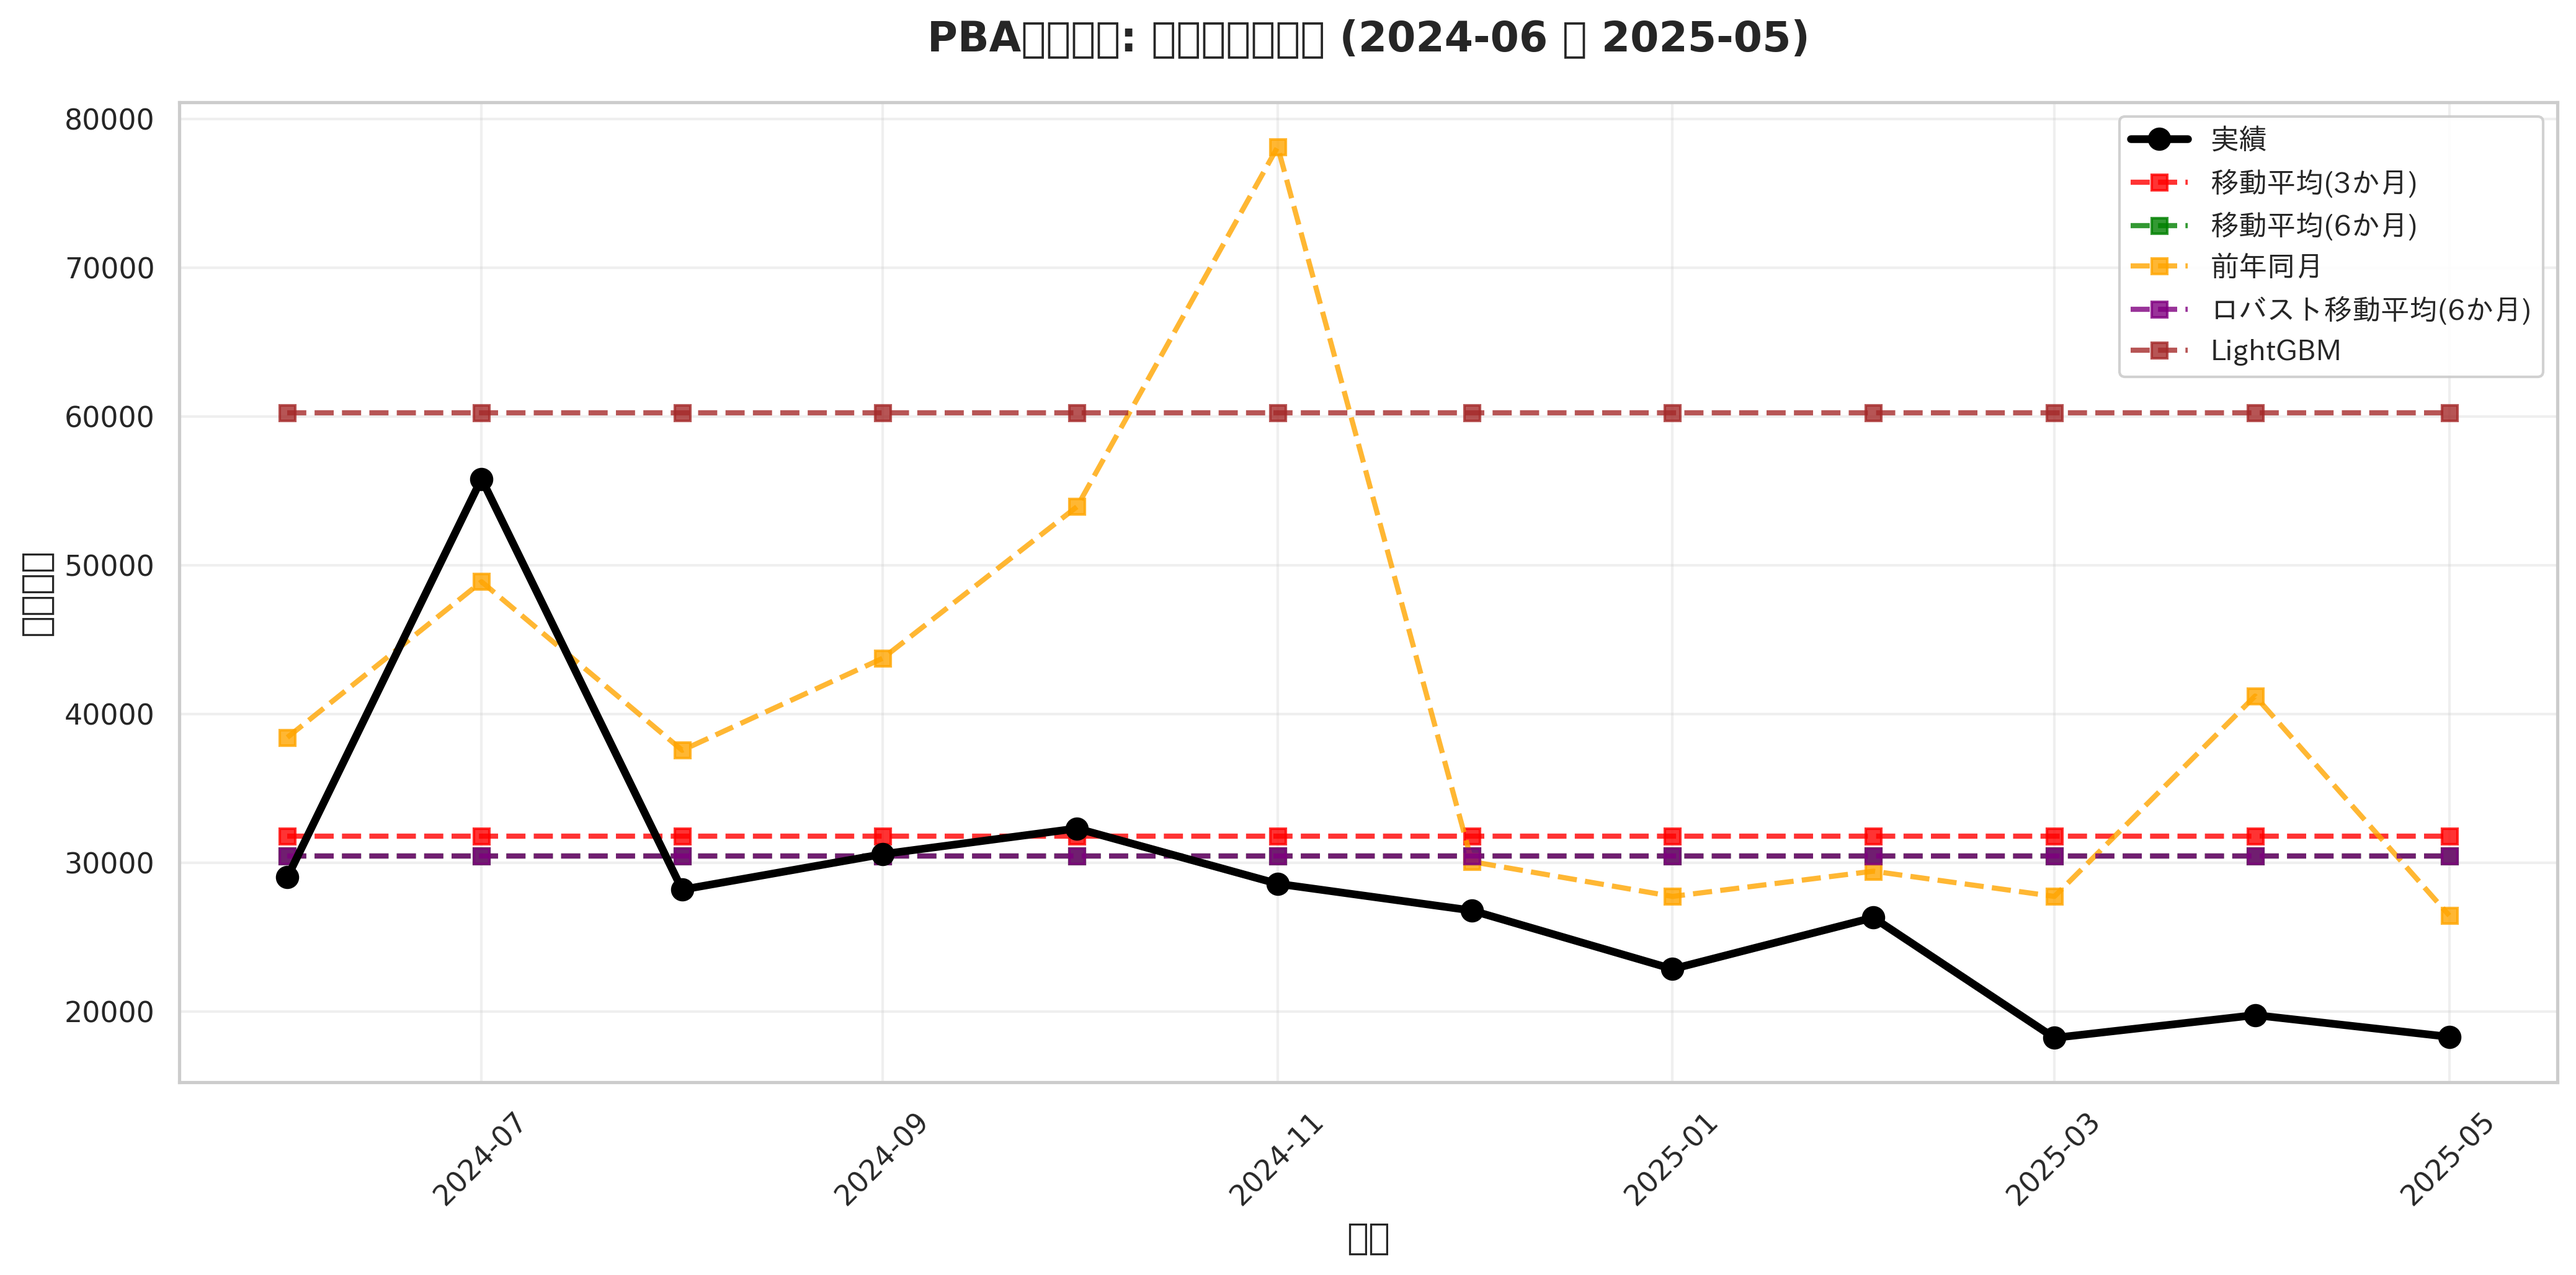
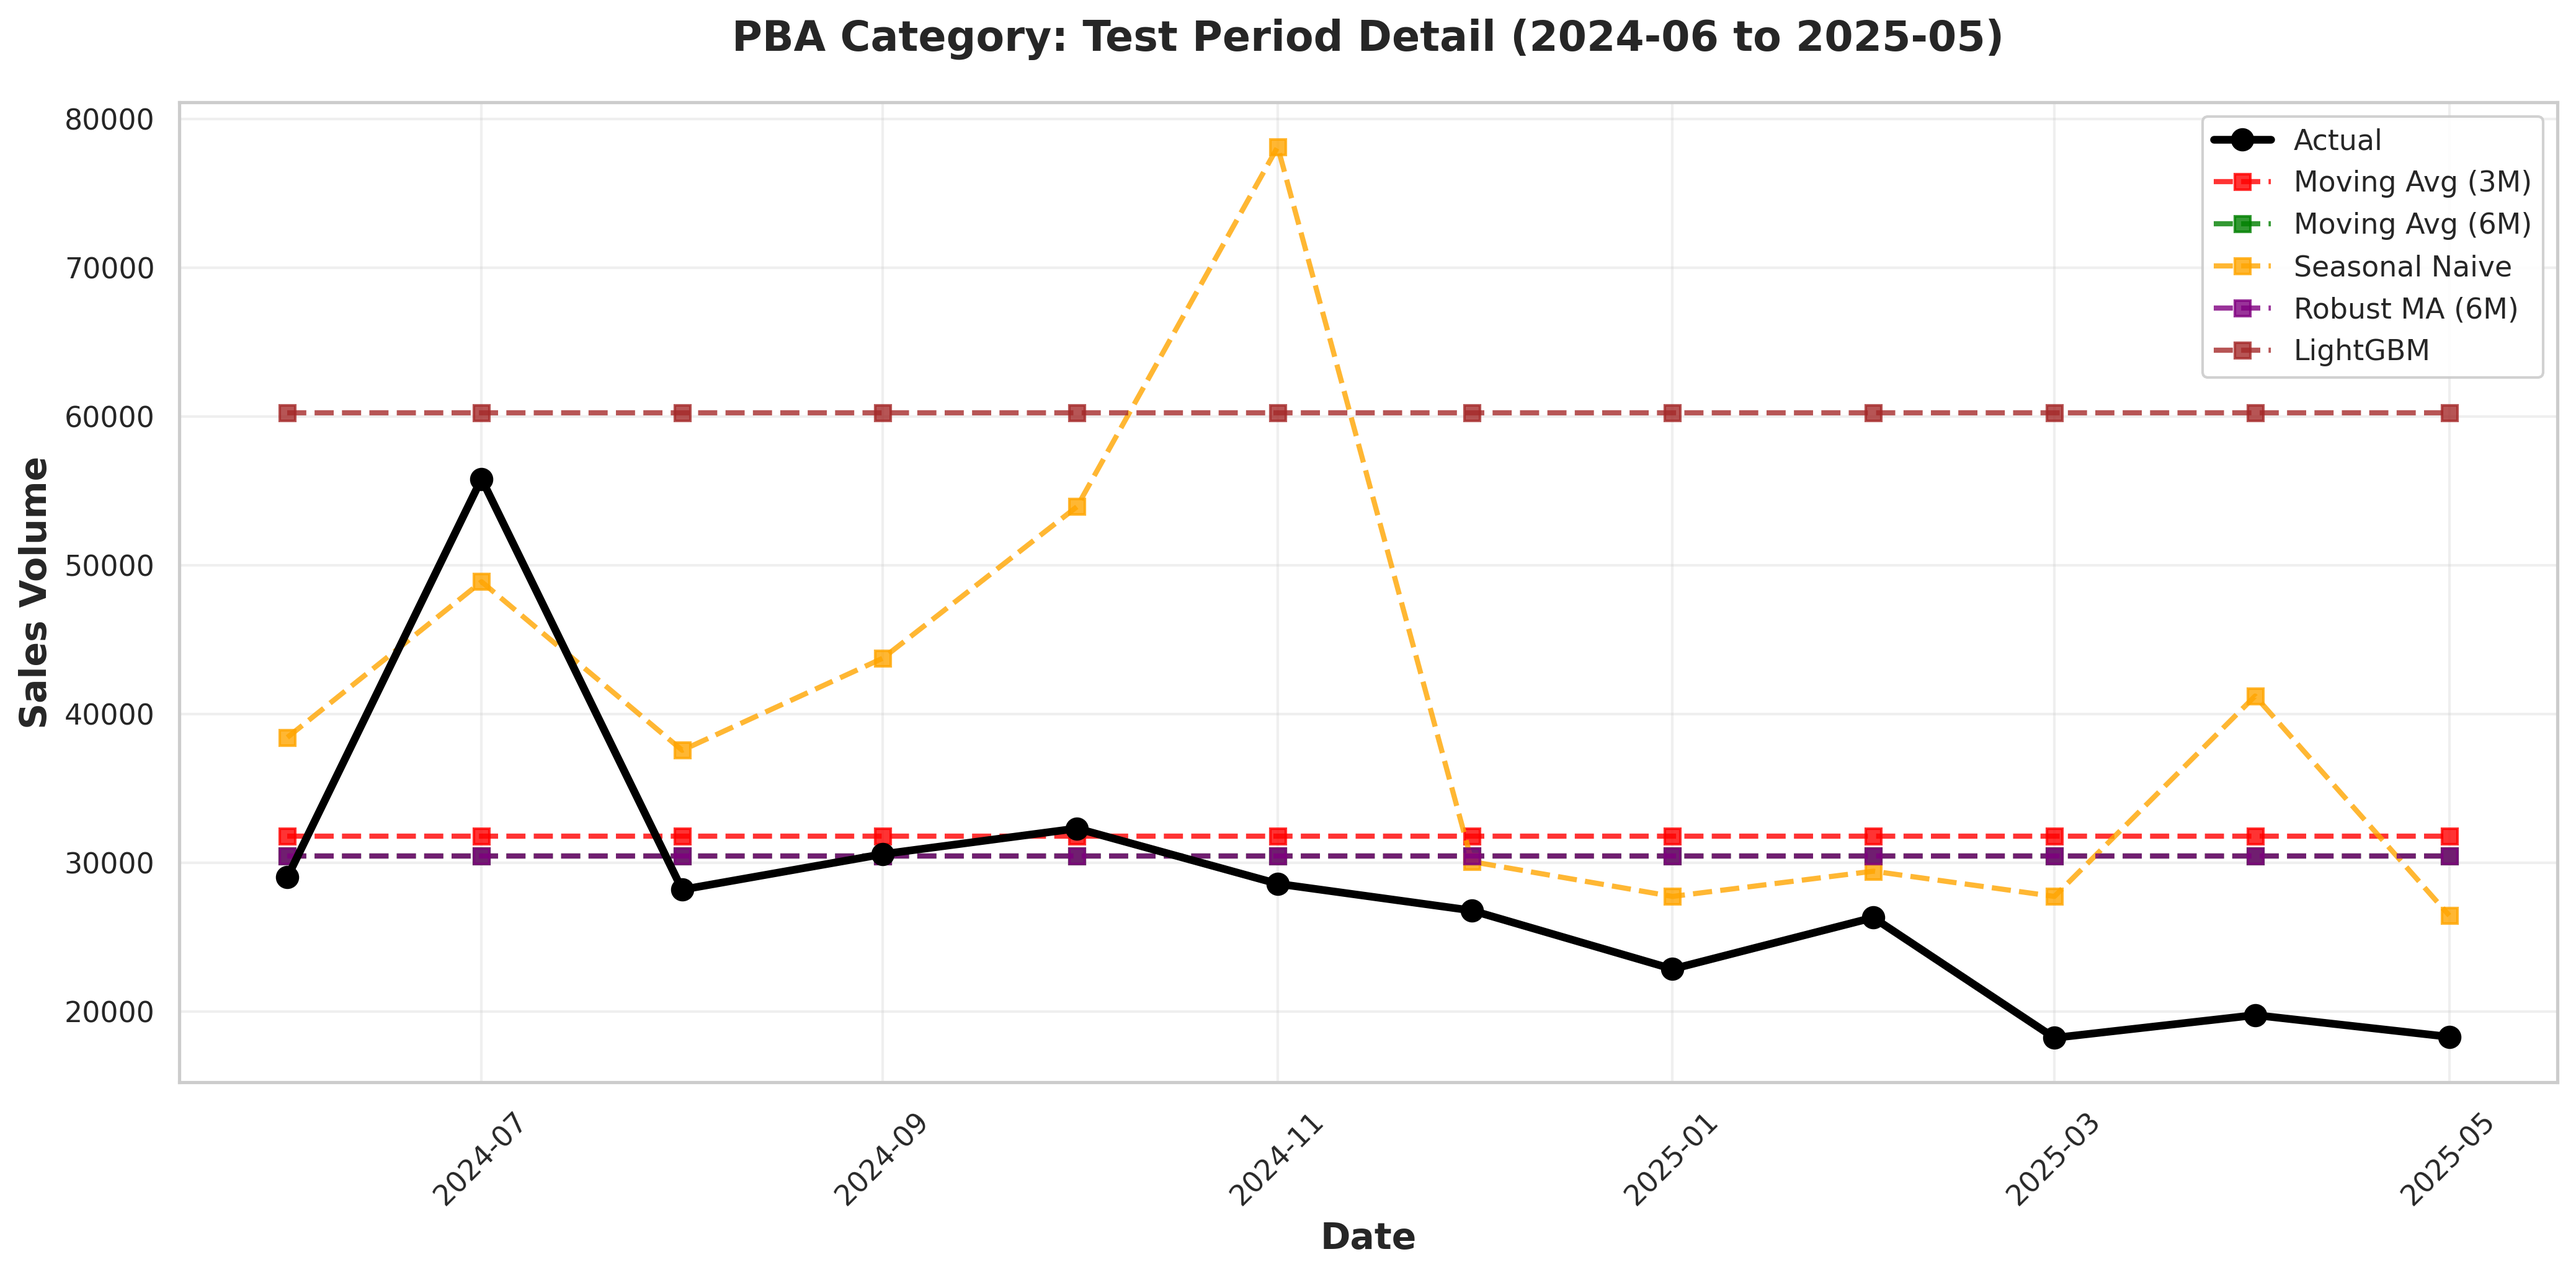
可視化グラフを全て英語表記に変更
日本語フォントの問題により文字化けが発生したため、全てのグラフを英語表記に変更しました。

変更内容:
- 日本語フォント設定を削除
- グラフタイトル、軸ラベル、凡例を全て英語に変更
- モデル名マッピングを削除し、英語のモデル名を直接使用
- 12個の可視化グラフを英語で再生成

修正したグラフ:
- 時系列比較グラフ: "Predictions vs Actual"
- テスト期間詳細グラフ: "Test Period Detail"
- メトリクス比較グラフ: "Model Performance Comparison"
- ヒートマップ: "Model Performance Heatmap"
- ベストモデル比較: "Best Model Performance by Category"
- ベースライン vs ML: "Baseline vs Machine Learning"

🤖 Generated with [Claude Code](https://claude.com/claude-code)

diff --git a/create_visualizations.py b/create_visualizations.py
@@ -18,11 +18,6 @@ from src.lightgbm_models import LightGBMForecaster
 import warnings
 warnings.filterwarnings('ignore')
 
-# 日本語フォント設定
-plt.rcParams['font.family'] = 'IPAexGothic'
-plt.rcParams['font.sans-serif'] = ['IPAexGothic', 'Noto Sans CJK JP', 'DejaVu Sans']
-plt.rcParams['axes.unicode_minus'] = False
-
 # スタイル設定
 sns.set_style('whitegrid')
 sns.set_palette('husl')
@@ -78,39 +73,31 @@ def plot_category_comparison(sheet_name: str, save_dir: Path):
     # ===================================================================
     fig, ax = plt.subplots(figsize=(16, 8))
 
-    # 訓練期間の実績
+    # Training period actual
     ax.plot(train_monthly['ds'], train_monthly['y'],
-            'o-', linewidth=2, markersize=4, label='訓練データ', color='blue', alpha=0.7)
+            'o-', linewidth=2, markersize=4, label='Training Data', color='blue', alpha=0.7)
 
-    # テスト期間の実績
+    # Test period actual
     ax.plot(test_monthly['ds'], test_monthly['y'],
-            'o-', linewidth=3, markersize=6, label='実績（テスト期間）', color='black', zorder=10)
+            'o-', linewidth=3, markersize=6, label='Actual (Test)', color='black', zorder=10)
 
-    # 各モデルの予測
+    # Model predictions
     colors = ['red', 'green', 'orange', 'purple', 'brown']
-    model_name_jp = {
-        'Moving Avg (3M)': '移動平均(3か月)',
-        'Moving Avg (6M)': '移動平均(6か月)',
-        'Seasonal Naive': '前年同月',
-        'Robust MA (6M)': 'ロバスト移動平均(6か月)',
-        'LightGBM': 'LightGBM'
-    }
     for i, (model_name, pred_df) in enumerate(models_predictions.items()):
-        jp_name = model_name_jp.get(model_name, model_name)
         ax.plot(pred_df['ds'], pred_df['yhat'],
-                's--', linewidth=2, markersize=5, label=jp_name,
+                's--', linewidth=2, markersize=5, label=model_name,
                 color=colors[i % len(colors)], alpha=0.8)
 
-    # 訓練/テスト境界線
+    # Train/test boundary
     train_test_boundary = train_monthly['ds'].max()
     ax.axvline(x=train_test_boundary, color='red', linestyle=':', linewidth=2,
-               label='訓練/テスト分割', alpha=0.7)
+               label='Train/Test Split', alpha=0.7)
 
-    ax.set_xlabel('日付', fontsize=14, fontweight='bold')
-    ax.set_ylabel('販売台数', fontsize=14, fontweight='bold')
-    ax.set_title(f'{sheet_name}カテゴリ: 予測 vs 実績',
+    ax.set_xlabel('Date', fontsize=14, fontweight='bold')
+    ax.set_ylabel('Sales Volume', fontsize=14, fontweight='bold')
+    ax.set_title(f'{sheet_name} Category: Predictions vs Actual',
                  fontsize=16, fontweight='bold', pad=20)
-    ax.legend(loc='best', fontsize=11, framealpha=0.9, prop={'family': 'IPAexGothic'})
+    ax.legend(loc='best', fontsize=11, framealpha=0.9)
     ax.grid(True, alpha=0.3)
     plt.xticks(rotation=45)
     plt.tight_layout()
@@ -126,22 +113,21 @@ def plot_category_comparison(sheet_name: str, save_dir: Path):
     # ===================================================================
     fig, ax = plt.subplots(figsize=(14, 7))
 
-    # 実績
+    # Actual values
     ax.plot(test_monthly['ds'], test_monthly['y'],
-            'o-', linewidth=3, markersize=8, label='実績', color='black', zorder=10)
+            'o-', linewidth=3, markersize=8, label='Actual', color='black', zorder=10)
 
-    # 各モデルの予測
+    # Model predictions
     for i, (model_name, pred_df) in enumerate(models_predictions.items()):
-        jp_name = model_name_jp.get(model_name, model_name)
         ax.plot(pred_df['ds'], pred_df['yhat'],
-                's--', linewidth=2, markersize=6, label=jp_name,
+                's--', linewidth=2, markersize=6, label=model_name,
                 color=colors[i % len(colors)], alpha=0.8)
 
-    ax.set_xlabel('日付', fontsize=14, fontweight='bold')
-    ax.set_ylabel('販売台数', fontsize=14, fontweight='bold')
-    ax.set_title(f'{sheet_name}カテゴリ: テスト期間詳細 (2024-06 ～ 2025-05)',
+    ax.set_xlabel('Date', fontsize=14, fontweight='bold')
+    ax.set_ylabel('Sales Volume', fontsize=14, fontweight='bold')
+    ax.set_title(f'{sheet_name} Category: Test Period Detail (2024-06 to 2025-05)',
                  fontsize=16, fontweight='bold', pad=20)
-    ax.legend(loc='best', fontsize=11, framealpha=0.9, prop={'family': 'IPAexGothic'})
+    ax.legend(loc='best', fontsize=11, framealpha=0.9)
     ax.grid(True, alpha=0.3)
     plt.xticks(rotation=45)
     plt.tight_layout()
@@ -185,19 +171,16 @@ def plot_category_comparison(sheet_name: str, save_dir: Path):
 
     metrics_df = pd.DataFrame(metrics_data)
 
-    # モデル名を日本語に変換
-    metrics_df['Model_JP'] = metrics_df['Model'].map(model_name_jp)
-
     # 3つのメトリクスを横並びで表示
     fig, axes = plt.subplots(1, 3, figsize=(18, 6))
 
     # MAPE
     ax = axes[0]
-    bars = ax.bar(metrics_df['Model_JP'], metrics_df['MAPE'], color=colors[:len(metrics_df)])
+    bars = ax.bar(metrics_df['Model'], metrics_df['MAPE'], color=colors[:len(metrics_df)])
     ax.set_ylabel('MAPE (%)', fontsize=12, fontweight='bold')
-    ax.set_title('平均絶対パーセント誤差', fontsize=14, fontweight='bold')
+    ax.set_title('Mean Absolute Percentage Error', fontsize=14, fontweight='bold')
     ax.tick_params(axis='x', rotation=45)
-    # 値をバーの上に表示
+    # Display values on bars
     for bar in bars:
         height = bar.get_height()
         ax.text(bar.get_x() + bar.get_width()/2., height,
@@ -205,9 +188,9 @@ def plot_category_comparison(sheet_name: str, save_dir: Path):
 
     # MAE
     ax = axes[1]
-    bars = ax.bar(metrics_df['Model_JP'], metrics_df['MAE'], color=colors[:len(metrics_df)])
+    bars = ax.bar(metrics_df['Model'], metrics_df['MAE'], color=colors[:len(metrics_df)])
     ax.set_ylabel('MAE', fontsize=12, fontweight='bold')
-    ax.set_title('平均絶対誤差', fontsize=14, fontweight='bold')
+    ax.set_title('Mean Absolute Error', fontsize=14, fontweight='bold')
     ax.tick_params(axis='x', rotation=45)
     for bar in bars:
         height = bar.get_height()
@@ -216,16 +199,16 @@ def plot_category_comparison(sheet_name: str, save_dir: Path):
 
     # RMSE
     ax = axes[2]
-    bars = ax.bar(metrics_df['Model_JP'], metrics_df['RMSE'], color=colors[:len(metrics_df)])
+    bars = ax.bar(metrics_df['Model'], metrics_df['RMSE'], color=colors[:len(metrics_df)])
     ax.set_ylabel('RMSE', fontsize=12, fontweight='bold')
-    ax.set_title('二乗平均平方根誤差', fontsize=14, fontweight='bold')
+    ax.set_title('Root Mean Squared Error', fontsize=14, fontweight='bold')
     ax.tick_params(axis='x', rotation=45)
     for bar in bars:
         height = bar.get_height()
         ax.text(bar.get_x() + bar.get_width()/2., height,
                 f'{height:.0f}', ha='center', va='bottom', fontsize=10)
 
-    plt.suptitle(f'{sheet_name}カテゴリ: モデル性能比較',
+    plt.suptitle(f'{sheet_name} Category: Model Performance Comparison',
                  fontsize=16, fontweight='bold', y=1.02)
     plt.tight_layout()
 
@@ -267,12 +250,10 @@ def plot_overall_summary(save_dir: Path):
     sns.heatmap(pivot_data, annot=True, fmt='.1f', cmap='RdYlGn_r',
                 cbar_kws={'label': 'MAPE (%)'}, ax=ax, vmin=0, vmax=100,
                 annot_kws={'fontsize': 11})
-    ax.set_title('モデル性能ヒートマップ: カテゴリ別・モデル別 MAPE',
+    ax.set_title('Model Performance Heatmap: MAPE by Category and Model',
                  fontsize=16, fontweight='bold', pad=20)
-    ax.set_xlabel('カテゴリ', fontsize=14, fontweight='bold')
-    ax.set_ylabel('モデル', fontsize=14, fontweight='bold')
-    # Y軸ラベルのフォント設定
-    ax.set_yticklabels(ax.get_yticklabels(), fontfamily='IPAexGothic')
+    ax.set_xlabel('Category', fontsize=14, fontweight='bold')
+    ax.set_ylabel('Model', fontsize=14, fontweight='bold')
     plt.tight_layout()
 
     save_path = save_dir / 'overall_heatmap.png'
@@ -295,11 +276,11 @@ def plot_overall_summary(save_dir: Path):
     bars = ax.bar(range(len(best_models)), best_models['MAPE'], color=bar_colors)
     ax.set_xticks(range(len(best_models)))
     ax.set_xticklabels([f"{row['カテゴリ']}\n({row['モデル名']})"
-                        for _, row in best_models.iterrows()], fontsize=11, fontfamily='IPAexGothic')
+                        for _, row in best_models.iterrows()], fontsize=11)
     ax.set_ylabel('MAPE (%)', fontsize=14, fontweight='bold')
-    ax.set_title('カテゴリ別ベストモデル性能', fontsize=16, fontweight='bold', pad=20)
-    ax.axhline(y=20, color='green', linestyle='--', alpha=0.5, label='優秀 (<20%)')
-    ax.axhline(y=40, color='orange', linestyle='--', alpha=0.5, label='許容範囲 (<40%)')
+    ax.set_title('Best Model Performance by Category', fontsize=16, fontweight='bold', pad=20)
+    ax.axhline(y=20, color='green', linestyle='--', alpha=0.5, label='Excellent (<20%)')
+    ax.axhline(y=40, color='orange', linestyle='--', alpha=0.5, label='Acceptable (<40%)')
     ax.grid(True, axis='y', alpha=0.3)
 
     # 値をバーの上に表示
@@ -328,25 +309,20 @@ def plot_overall_summary(save_dir: Path):
         baseline_mape = cat_data[cat_data['モデル種別'] == 'ベースライン']['MAPE'].mean()
         ml_mape = cat_data[cat_data['モデル種別'] == '機械学習']['MAPE'].mean()
 
-        bars = ax.bar(['ベースライン', '機械学習'], [baseline_mape, ml_mape],
+        bars = ax.bar(['Baseline', 'Machine Learning'], [baseline_mape, ml_mape],
                      color=['skyblue', 'salmon'])
-        ax.set_ylabel('平均MAPE (%)', fontsize=12, fontweight='bold', fontfamily='IPAexGothic')
-        ax.set_title(f'{category}カテゴリ', fontsize=14, fontweight='bold', fontfamily='IPAexGothic')
+        ax.set_ylabel('Average MAPE (%)', fontsize=12, fontweight='bold')
+        ax.set_title(f'{category} Category', fontsize=14, fontweight='bold')
         ax.set_ylim(0, max(baseline_mape, ml_mape) * 1.2)
 
-        # ティックラベルにフォント指定
-        ax.set_xticklabels(ax.get_xticklabels(), fontfamily='IPAexGothic')
-        ax.set_yticklabels(ax.get_yticklabels(), fontfamily='IPAexGothic')
-
-        # 値をバーの上に表示
+        # Display values on bars
         for bar in bars:
             height = bar.get_height()
             ax.text(bar.get_x() + bar.get_width()/2., height,
-                    f'{height:.1f}%', ha='center', va='bottom', fontsize=11, fontweight='bold',
-                    fontfamily='IPAexGothic')
+                    f'{height:.1f}%', ha='center', va='bottom', fontsize=11, fontweight='bold')
 
-    plt.suptitle('ベースライン vs 機械学習：平均MAPE比較',
-                 fontsize=16, fontweight='bold', y=1.02, fontfamily='IPAexGothic')
+    plt.suptitle('Baseline vs Machine Learning: Average MAPE Comparison',
+                 fontsize=16, fontweight='bold', y=1.02)
     plt.tight_layout()
 
     save_path = save_dir / 'baseline_vs_ml.png'
